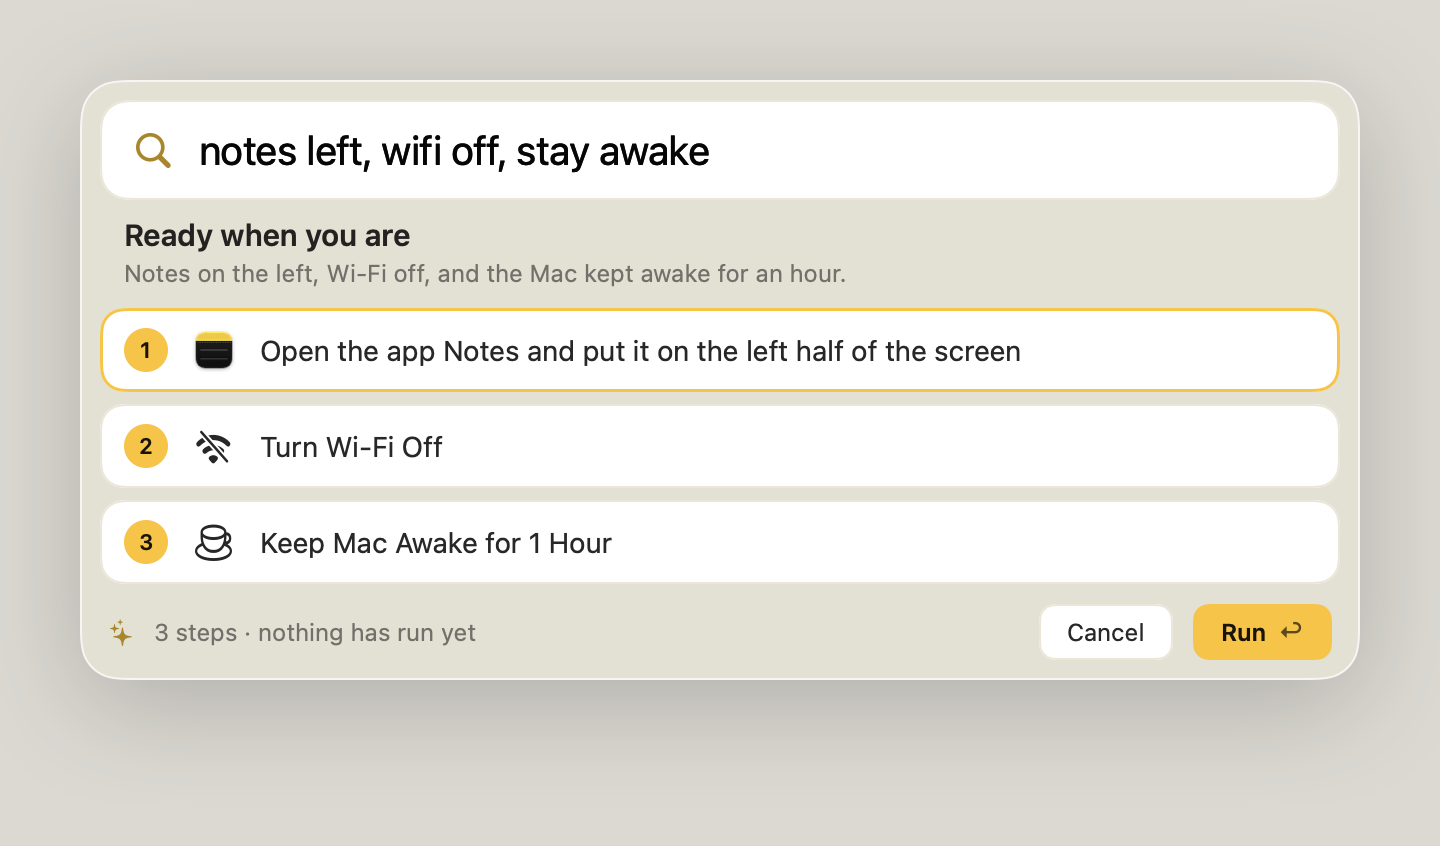
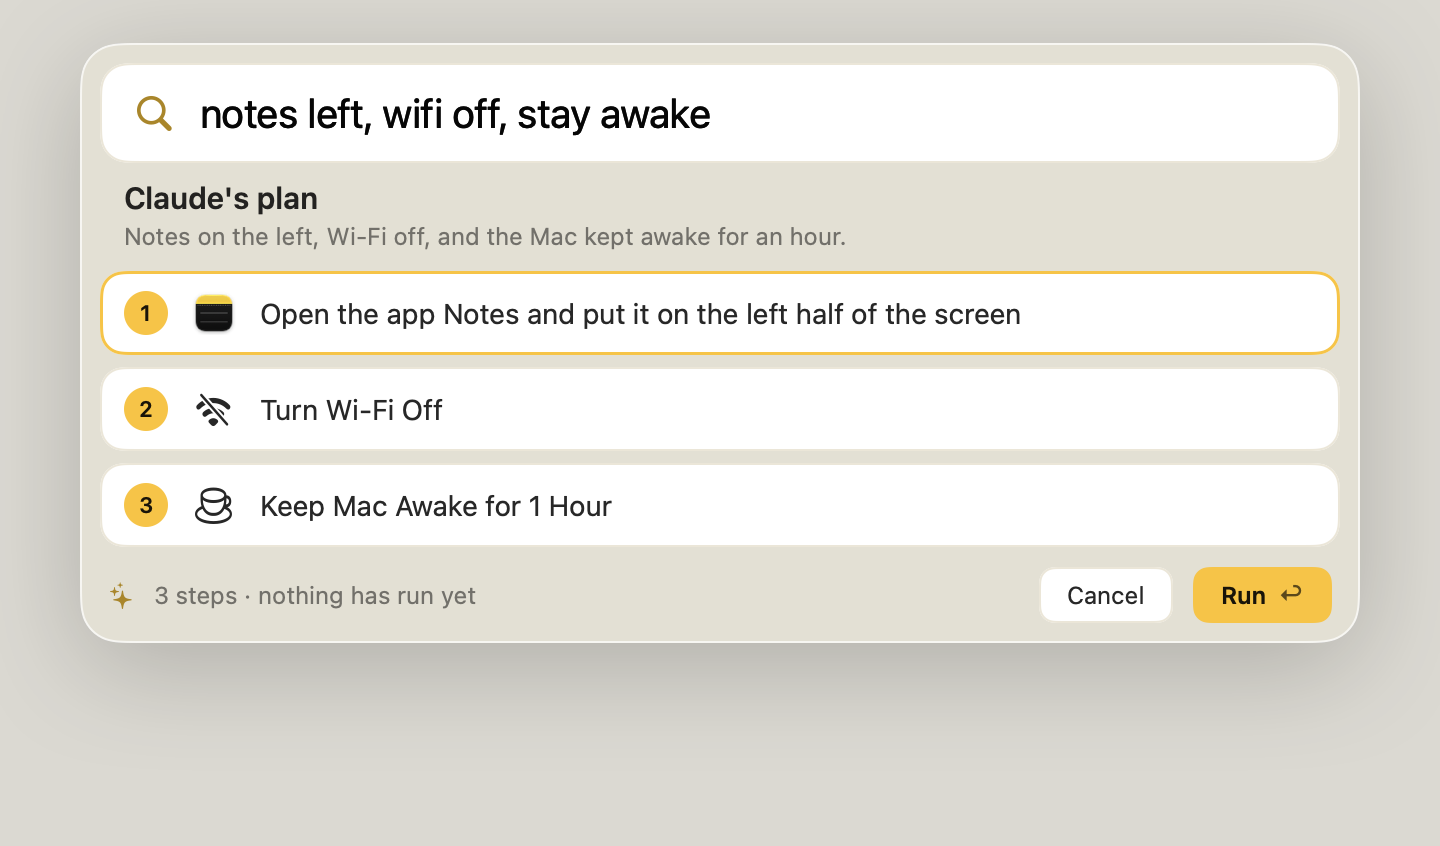
Cut secondary text by layout: titles-only settings, no Thinking caption, no Claude row subtitle, shortcut hint on first opens only
Settings rows show their title; the login row shows macOS's note only when there is one.
Result rows skip an empty subtitle, so no gap is left before the return key.
The shortcut footer shows on the first five opens, or while no shortcut works.
Adds --preview-settings and a first-open option for --preview. Re-renders docs/images/plan.png.

diff --git a/Sources/Beeline/Settings.swift b/Sources/Beeline/Settings.swift
@@ -15,6 +15,7 @@ enum Settings {
     static let appearance = "appearance"
     static let welcomed = "welcomed"
     static let wasTrusted = "wasTrusted"
+    static let barOpens = "barOpens"
 
     static let forgetHistory = Notification.Name("BeelineForgetHistory")
     static let clearClipboard = Notification.Name("BeelineClearClipboard")
@@ -117,6 +118,18 @@ final class SettingsWindowController: NSObject {
         window?.center()
         TestRun.orderFront(window, activating: true)
     }
+
+    static func renderPreview(to path: String) {
+        let host = NSHostingView(rootView: SettingsView(state: SettingsState(), login: LoginItem()))
+        host.frame = NSRect(origin: .zero, size: host.fittingSize)
+        let window = NSWindow(contentRect: host.frame, styleMask: .borderless, backing: .buffered, defer: false)
+        window.contentView = host
+        host.layoutSubtreeIfNeeded()
+        RunLoop.main.run(until: Date().addingTimeInterval(0.4))
+        let rep = host.bitmapImageRepForCachingDisplay(in: host.bounds)!
+        host.cacheDisplay(in: host.bounds, to: rep)
+        try? rep.representation(using: .png, properties: [:])?.write(to: URL(fileURLWithPath: path))
+    }
 }
 
 private struct SettingsView: View {
@@ -138,32 +151,37 @@ private struct SettingsView: View {
         Form {
             Section("General") {
                 Toggle(isOn: Binding(get: { login.isOn }, set: { login.set($0) })) {
-                    label("Open at login", login.note ?? "Start Beeline when you log in to your Mac.")
+                    VStack(alignment: .leading, spacing: 2) {
+                        Text("Open at login")
+                        if let note = login.note {
+                            Text(note).font(.caption).foregroundStyle(.secondary)
+                        }
+                    }
                 }
                 Picker(selection: $shortcut) {
                     Text("⌘ Space").tag("command")
                     Text("⌥ Space").tag("option")
                     Text("⌃ Space").tag("control")
                 } label: {
-                    label("Shortcut", "For ⌘ Space, Spotlight's shortcut must be off in Keyboard settings.")
+                    Text("Shortcut")
                 }
                 .onChange(of: shortcut) { NotificationCenter.default.post(name: Settings.shortcutChanged, object: nil) }
                 Toggle(isOn: $holdToTalk) {
-                    label("Hold the shortcut to talk", "Speak instead of typing. Recognised on this Mac.")
+                    Text("Hold the shortcut to talk")
                 }
                 Toggle(isOn: $actOnRelease) {
-                    label("Act when you let go", "Opens an app, setting or window you named plainly, after a moment to press esc. Anything else waits for ↩.")
+                    Text("Act when you let go")
                 }
                 .disabled(!holdToTalk)
                 Toggle(isOn: $showBee) {
-                    label("Show the bee", "It flies to what Beeline is about to press. Esc stops it from any app.")
+                    Text("Show the bee")
                 }
                 Picker(selection: $appearance) {
                     Text("System").tag("system")
                     Text("Light").tag("light")
                     Text("Dark").tag("dark")
                 } label: {
-                    label("Appearance", "Light, dark, or follow your Mac.")
+                    Text("Appearance")
                 }
                 .pickerStyle(.segmented)
                 .onChange(of: appearance) { Settings.applyAppearance() }
@@ -171,22 +189,22 @@ private struct SettingsView: View {
 
             Section("Search") {
                 Toggle(isOn: $useOnDeviceModel) {
-                    label("Use the on-device model", "Rewrites loose requests as search words. Nothing leaves your Mac.")
+                    Text("Use the on-device model")
                 }
                 Toggle(isOn: $offerClaude) {
-                    label("Offer Ask Claude", "Sends multi-step requests to Claude. You see its plan before anything runs.")
+                    Text("Offer Ask Claude")
                 }
                 Toggle(isOn: $showDetails) {
-                    label("Show details", "Shows why Beeline chose a result and how long the search took.")
+                    Text("Show details")
                 }
             }
 
             Section("History") {
                 Toggle(isOn: $learnFromUse) {
-                    label("Learn from what I pick", "Frequent choices rank higher. Stored on this Mac.")
+                    Text("Learn from what I pick")
                 }
                 Toggle(isOn: $clipboardHistory) {
-                    label("Clipboard history", "Type “clip” to paste something you copied. Kept in memory only.")
+                    Text("Clipboard history")
                 }
                 HStack {
                     Spacer()
@@ -238,13 +256,6 @@ private struct SettingsView: View {
         .tint(Theme.yellow)
         .frame(width: 500)
         .fixedSize(horizontal: false, vertical: true)
-    }
-
-    private func label(_ title: String, _ detail: String) -> some View {
-        VStack(alignment: .leading, spacing: 2) {
-            Text(title)
-            Text(detail).font(.caption).foregroundStyle(.secondary)
-        }
     }
 }
 

diff --git a/Sources/Beeline/BarView.swift b/Sources/Beeline/BarView.swift
@@ -65,6 +65,15 @@ final class BarModel: ObservableObject {
     @Published var focusTick = 0
 
     @Published var needsAccess = false
+    @Published var showsShortcutHint = true
+
+    static let shortcutHintOpens = 5
+
+    func countOpen(_ defaults: UserDefaults = .standard) {
+        let opens = defaults.integer(forKey: Settings.barOpens) + 1
+        defaults.set(opens, forKey: Settings.barOpens)
+        showsShortcutHint = opens <= Self.shortcutHintOpens || Settings.activeShortcut == nil
+    }
 
     let catalogue = Catalogue()
     var onRun: (Item) -> Void = { _ in }
@@ -246,7 +255,7 @@ final class BarModel: ObservableObject {
         guard Self.offersClaude(for: query), Settings.isOn(Settings.offerClaude), items.first?.kind != .calculation else { return items }
         let question = Self.isPlainQuestion(query, catalogue.isQuestion(query))
         let row = Item(id: Self.claudeRowID, kind: .action, verb: "", title: question ? "Ask Claude" : "Ask Claude to work it out",
-                       subtitle: question ? "answers here in a few seconds" : "takes a few seconds", keywords: "",
+                       subtitle: "", keywords: "",
                        icon: NSImage(systemSymbolName: "sparkles", accessibilityDescription: nil), run: {})
         let leads = Self.claudeLeads(question: question, words: words, top: items.first, followUp: LastRun.shared.isFollowUp(query),
                                      strong: LastRun.shared.isFollowUp(query, strong: true))
@@ -640,7 +649,7 @@ struct KeyHints: View {
                 }
             }
             .accessibilityHidden(true)
-            if !model.showsActions, model.results.isEmpty {
+            if !model.showsActions, model.results.isEmpty, model.showsShortcutHint {
                 Text("\(Settings.activeShortcutLabel) opens Beeline anywhere")
             }
             Spacer()
@@ -773,7 +782,6 @@ struct BarView: View {
                         }
                     }
                     Text("Thinking…").foregroundStyle(.primary)
-                    Text("on your Mac").foregroundStyle(.secondary)
                 }
                 .font(.system(size: 12))
                 .frame(maxWidth: .infinity)
@@ -898,11 +906,13 @@ struct ResultRow: View {
             } else if item.isLearned {
                 Text("learned").foregroundStyle(.tertiary)
             }
-            Text(item.subtitle)
-                .foregroundStyle(.secondary)
-                .lineLimit(1)
-                .truncationMode(.head)
-                .frame(maxWidth: 180, alignment: .trailing)
+            if !item.subtitle.isEmpty {
+                Text(item.subtitle)
+                    .foregroundStyle(.secondary)
+                    .lineLimit(1)
+                    .truncationMode(.head)
+                    .frame(maxWidth: 180, alignment: .trailing)
+            }
             if isSelected {
                 Text(isArmed ? "↩ again" : "↩")
                     .foregroundStyle(isArmed ? Color.red : Theme.accent)

diff --git a/Sources/Beeline/main.swift b/Sources/Beeline/main.swift
@@ -12,7 +12,7 @@ if Demo.requested != nil {
     }
 }
 
-let knownFlags: [String: Int] = ["--query": 1, "--rewrite": 2, "--controls": 1, "--preview": 2, "--preview-welcome": 1,
+let knownFlags: [String: Int] = ["--query": 1, "--rewrite": 2, "--controls": 1, "--preview": 2, "--preview-welcome": 1, "--preview-settings": 1,
                                  "--files": 2, "--pick": 2, "--ai": 1, "--plan": 1]
 // Single-dash arguments are macOS's and Xcode's own (-NSDocumentRevisionsDebugMode and the like).
 if let flag = CommandLine.arguments.dropFirst().first(where: { $0.hasPrefix("--") }) {
@@ -77,6 +77,7 @@ if let flag = CommandLine.arguments.firstIndex(of: "--preview"), CommandLine.arg
     model.catalogue.includeFiles = false
     model.query = CommandLine.arguments[flag + 1]
     if CommandLine.arguments.contains("arm") { model.runSelected() }
+    model.showsShortcutHint = CommandLine.arguments.contains("first-open")
     if CommandLine.arguments.contains("actions") {
         if let index = CommandLine.arguments.firstIndex(of: "actions"), CommandLine.arguments.count > index + 1,
            let row = Int(CommandLine.arguments[index + 1]) { model.actionSelected = row }
@@ -121,6 +122,12 @@ if let flag = CommandLine.arguments.firstIndex(of: "--preview"), CommandLine.arg
 if let flag = CommandLine.arguments.firstIndex(of: "--preview-welcome"), CommandLine.arguments.count > flag + 1 {
     NSApplication.shared.setActivationPolicy(.prohibited)
     WelcomeWindowController.renderPreview(to: CommandLine.arguments[flag + 1])
+    exit(0)
+}
+
+if let flag = CommandLine.arguments.firstIndex(of: "--preview-settings"), CommandLine.arguments.count > flag + 1 {
+    NSApplication.shared.setActivationPolicy(.prohibited)
+    SettingsWindowController.renderPreview(to: CommandLine.arguments[flag + 1])
     exit(0)
 }
 

diff --git a/Tests/BeelineTests/BarModelTests.swift b/Tests/BeelineTests/BarModelTests.swift
@@ -51,3 +51,24 @@ private func item(_ id: String, confirm: Bool = false) -> Item {
     #expect(model.armedID == "Empty Trash")
     model.armedID = nil
 }
+
+@Test @MainActor func theShortcutHintShowsOnlyOnTheFirstOpens() throws {
+    let model = sharedModel
+    let defaults = try #require(UserDefaults(suiteName: "beeline-test-bar-opens-\(UUID().uuidString)"))
+    let active = Settings.activeShortcut
+    defer {
+        Settings.activeShortcut = active
+        model.showsShortcutHint = true
+    }
+    Settings.activeShortcut = "command"
+    for _ in 1...BarModel.shortcutHintOpens {
+        model.countOpen(defaults)
+        #expect(model.showsShortcutHint)
+    }
+    model.countOpen(defaults)
+    #expect(!model.showsShortcutHint)
+
+    Settings.activeShortcut = nil
+    model.countOpen(defaults)
+    #expect(model.showsShortcutHint)
+}

diff --git a/Sources/Beeline/BarController.swift b/Sources/Beeline/BarController.swift
@@ -450,6 +450,7 @@ final class BarController: NSObject, NSWindowDelegate {
     func show() {
         isShown = true
         model.isOpen = true
+        model.countOpen()
         voice.cancel()
         model.clearPlan()
         model.newTip()

diff --git a/README.md b/README.md
@@ -118,6 +118,7 @@ build/Beeline.app/Contents/MacOS/Beeline --query "night shift"       # ranked re
 build/Beeline.app/Contents/MacOS/Beeline --ai "make my mac quieter"  # the on-device model's pick
 build/Beeline.app/Contents/MacOS/Beeline --plan "mute and dark mode"  # Claude's plan, runs nothing
 build/Beeline.app/Contents/MacOS/Beeline --preview "wifi" bar.png    # render the bar to an image
+build/Beeline.app/Contents/MacOS/Beeline --preview-settings settings.png  # render Settings to an image
 build/Beeline.app/Contents/MacOS/Beeline --rewrite "more formal" "hey u free?"  # a rewrite, replaces nothing
 ```
 
